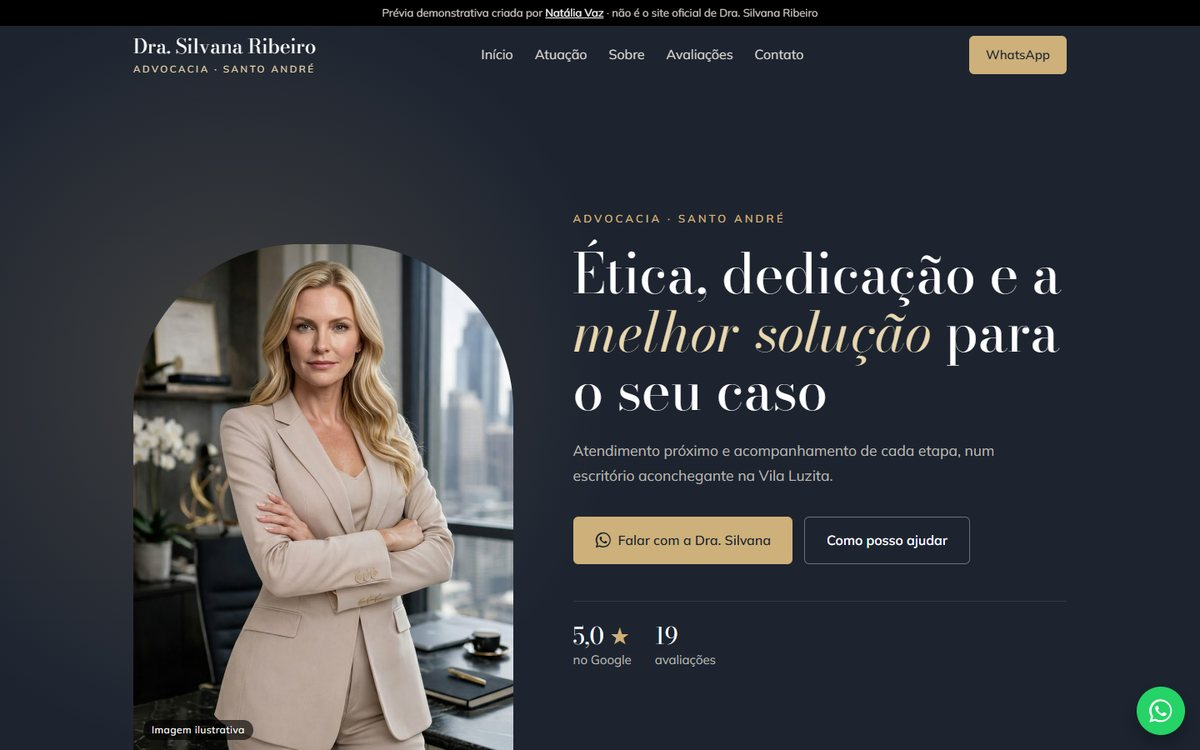
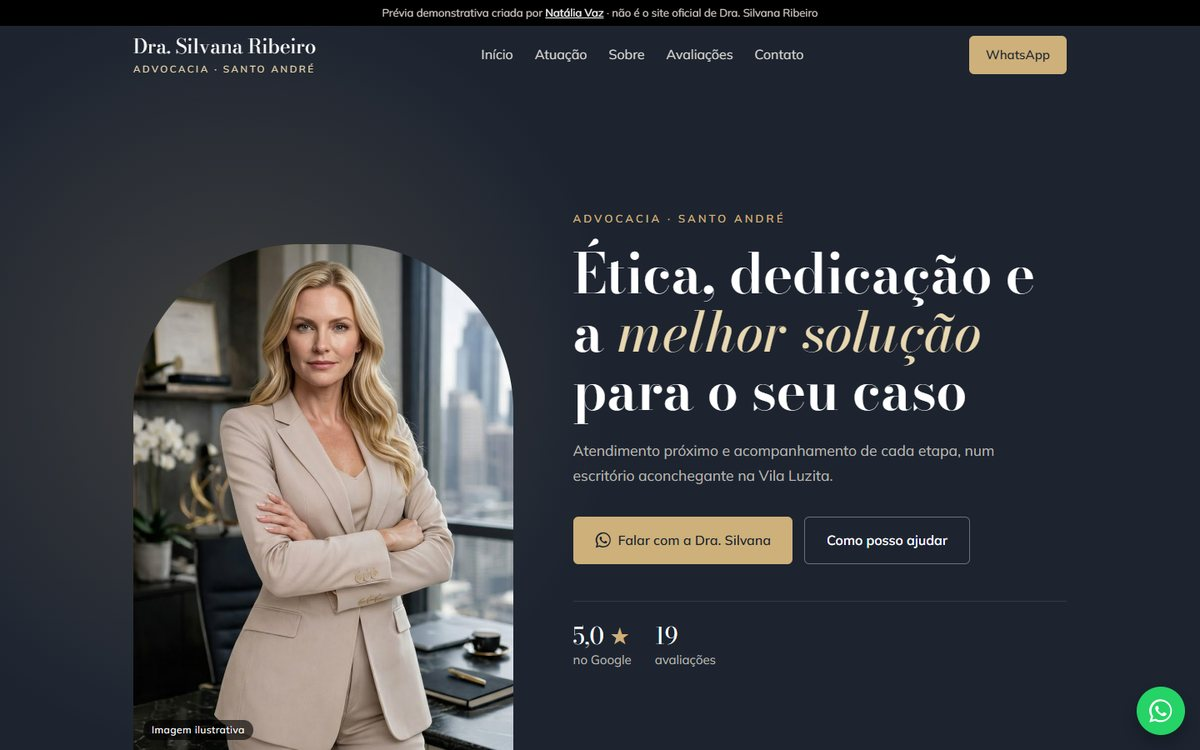
silvana-ribeiro: títulos Bodoni em 600

Changed region(s): [[0.4625, 0.3373, 0.8942, 0.5827]]

diff --git a/silvana-ribeiro/index.html b/silvana-ribeiro/index.html
@@ -26,7 +26,7 @@
 <meta name="twitter:card" content="summary_large_image">
 <link rel="preconnect" href="https://fonts.googleapis.com">
 <link rel="preconnect" href="https://fonts.gstatic.com" crossorigin>
-<link href="https://fonts.googleapis.com/css2?family=Bodoni+Moda:ital,opsz,wght@0,6..96,400;0,6..96,600;1,6..96,400&family=Mulish:wght@300;400;500;600&display=swap" rel="stylesheet">
+<link href="https://fonts.googleapis.com/css2?family=Bodoni+Moda:ital,opsz,wght@0,6..96,400..700;1,6..96,400..700&family=Mulish:wght@300;400;500;600&display=swap" rel="stylesheet">
 <style>
 :root{
 --dark:#1d2430;
@@ -246,6 +246,9 @@ html{--gap-secao:clamp(64px,8vw,96px)}
 .about-head{grid-area:head;align-self:end}
 .about-body{grid-area:body;align-self:start}
 @media (max-width:860px){.about{grid-template-areas:"head" "img" "body";row-gap:28px}.about-head h2{margin-bottom:0}}
+/* Bodoni Moda: traço fino some no fundo claro -> títulos em 600 */
+.hero h1,.head h2,.about h2,.card h3,.info h3{font-weight:600}
+.hero h1 i{font-weight:500}
 .hero{min-height:100vh;display:flex;align-items:flex-end}
 @media (min-width:861px){.hero .wrap{grid-template-columns:.85fr 1.15fr}.hero-photo{order:-1}.hero-text{padding-left:24px}}
 .hero-photo img{object-position:50% 18%}
